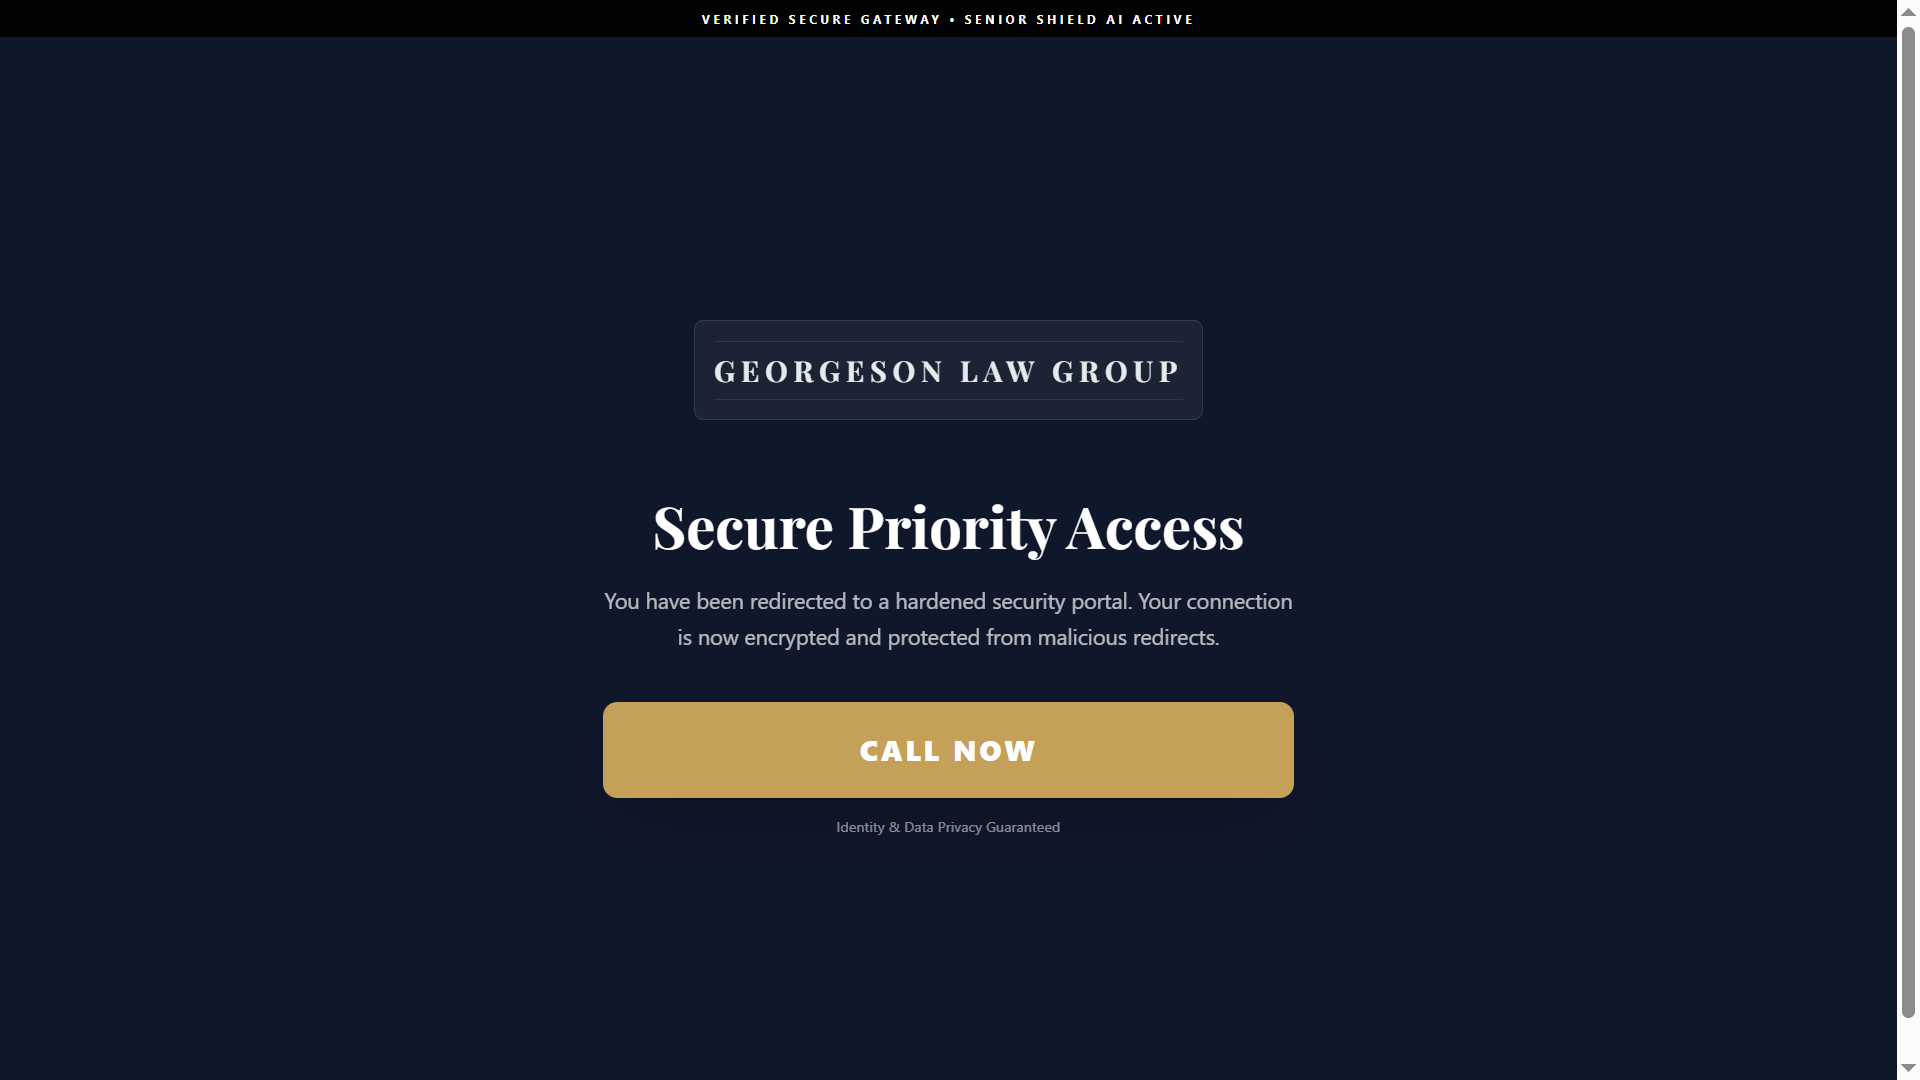
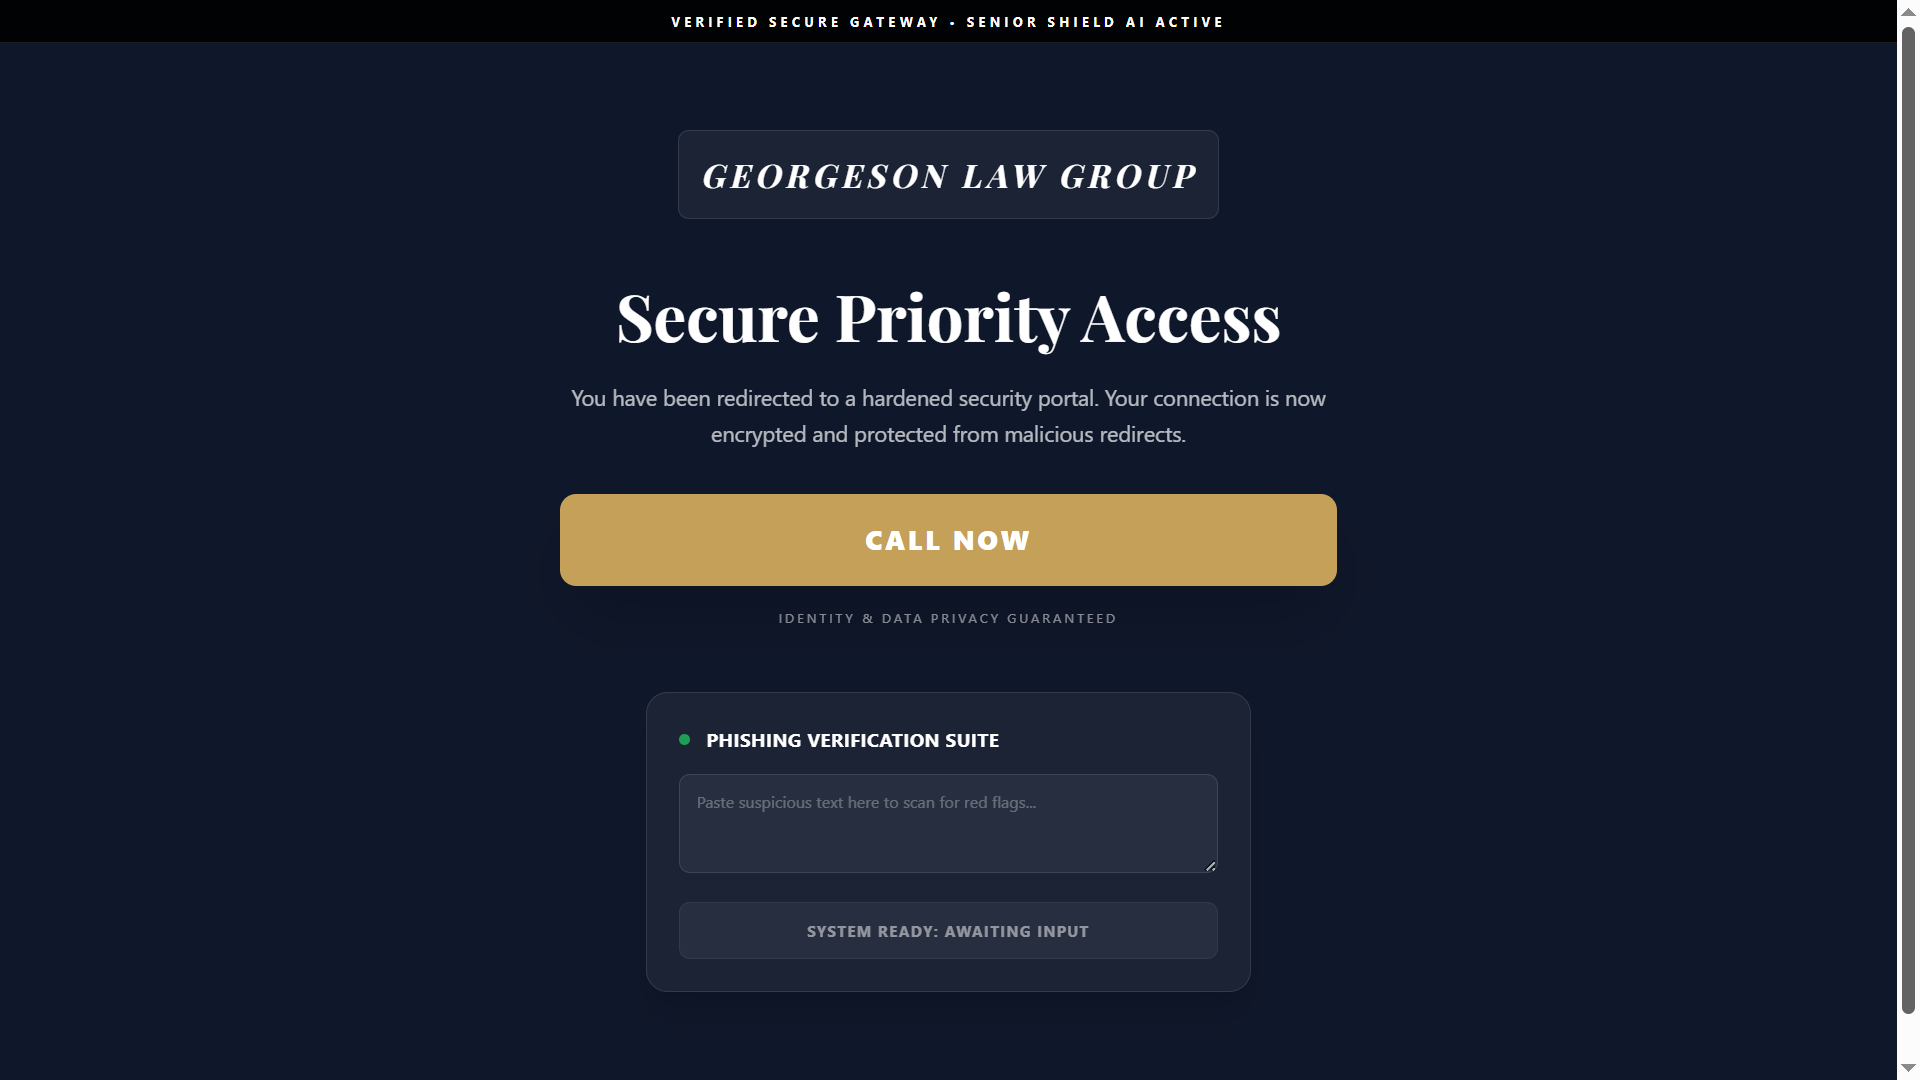
add mockup and current images

diff --git a/index.html b/index.html
@@ -8,14 +8,25 @@
     <link href="https://fonts.googleapis.com/css2?family=Playfair+Display:wght@700&family=Inter:wght@400;700;900&display=swap" rel="stylesheet">
     
     <style>
-        .theme-prestige { --primary: #c5a059; --bg: #0f172a; --font-heading: 'Playfair Display', serif; }
+        /* THE SWITCH LOGIC */
+        /* Lawyer Mode: .theme-prestige | Plumber Mode: .theme-emergency */
+        .theme-prestige { --primary: #c5a059; --bg: #0f172a; --text: #ffffff; --font-heading: 'Playfair Display', serif; --accent: rgba(255,255,255,0.1); }
+        .theme-emergency { --primary: #16a34a; --bg: #f8fafc; --text: #1e293b; --font-heading: 'Inter', sans-serif; --accent: rgba(0,0,0,0.05); }
+
+        body { background-color: var(--bg); color: var(--text); font-family: 'Inter', sans-serif; }
         .heading-font { font-family: var(--font-heading); }
-        .theme-prestige { background-color: var(--bg); color: white; }
-        .theme-prestige #main-btn { background-color: var(--primary); color: white; }
+        
+        #main-btn { background-color: var(--primary); color: white; }
+        .theme-emergency #main-btn { box-shadow: 0 8px 0 0 #14532d; }
+        
+        /* Ensures branding stays visible in both modes */
+        .brand-container { background-color: var(--accent); border: 1px solid rgba(128,128,128,0.2); }
+        .theme-emergency .brand-text { color: #1e3a8a; } /* Strong blue for Zaragoza */
+        .theme-prestige .brand-text { color: #ffffff; }
     </style>
 </head>
 
-<body class="theme-prestige transition-colors duration-500">
+<body class="theme-emergency transition-colors duration-500">
 
     <div class="bg-black/90 text-white py-2 text-center text-[10px] tracking-[0.3em] font-bold border-b border-white/10 uppercase">
         Verified Secure Gateway • Senior Shield AI Active
@@ -24,18 +35,18 @@
     <main class="min-h-screen flex flex-col items-center justify-center px-6 transition-all pb-20">
         
         <div class="mb-8 text-center mt-12">
-            <div class="inline-block p-4 bg-white/5 border border-white/10 backdrop-blur-md rounded-lg mb-4">
-                <h2 class="heading-font text-2xl font-black tracking-tighter text-white uppercase italic">
-                    Piasta Law
+            <div class="brand-container inline-block p-4 backdrop-blur-md rounded-lg mb-4">
+                <h2 class="brand-text heading-font text-2xl font-black uppercase italic tracking-[0.15em]">
+                    Elite Plumbing Services
                 </h2>
             </div>
         </div>
 
         <div class="max-w-xl w-full text-center mb-12">
-            <h1 class="heading-font text-4xl md:text-5xl mb-6 leading-tight">
+            <h1 class="heading-font text-4xl md:text-5xl mb-6 leading-tight font-black">
                 Secure Priority Access
             </h1>
-            <p class="text-base opacity-70 mb-8 leading-relaxed font-sans">
+            <p class="text-base opacity-80 mb-8 leading-relaxed font-sans">
                 You have been redirected to a hardened security portal. Your connection is now encrypted and protected from malicious redirects.
             </p>
 
@@ -43,21 +54,21 @@
                 <a href="tel:+10000000000" id="main-btn" class="block w-full py-5 rounded-xl font-black text-xl shadow-2xl transition-all transform active:scale-95 uppercase tracking-widest text-center">
                     Call Now
                 </a>
-                <p class="text-[10px] opacity-50 font-sans uppercase tracking-[0.2em]">Identity & Data Privacy Guaranteed</p>
+                <p class="text-[10px] opacity-60 font-sans uppercase tracking-[0.2em]">Identity & Data Privacy Guaranteed</p>
             </div>
         </div>
 
-        <div id="detector-container" class="max-w-md w-full bg-white/5 border border-white/10 backdrop-blur-sm rounded-2xl p-6 shadow-xl">
+        <div id="detector-container" class="max-w-md w-full rounded-2xl p-6 shadow-xl border border-gray-200" style="background-color: var(--accent);">
             <div class="flex items-center gap-3 mb-4">
                 <div class="h-2 w-2 rounded-full bg-green-500 animate-pulse"></div>
-                <h3 class="text-white font-bold text-sm tracking-wide uppercase">Phishing Verification Suite</h3>
+                <h3 class="font-bold text-sm tracking-wide uppercase">Phishing Verification Suite</h3>
             </div>
             
             <textarea id="userInput" rows="3" 
-                class="w-full p-3 rounded-lg border border-white/10 text-white bg-white/5 font-sans text-xs focus:border-[#c5a059] focus:ring-0 outline-none transition-all placeholder:text-white/30"
+                class="w-full p-3 rounded-lg border border-gray-300 text-slate-900 bg-white font-sans text-xs focus:ring-2 focus:ring-green-500 outline-none transition-all placeholder:text-slate-400"
                 placeholder="Paste suspicious text here to scan for red flags..."></textarea>
             
-            <div id="riskStatus" class="mt-4 p-3 rounded-lg text-[11px] font-bold uppercase tracking-widest text-center transition-all duration-300 bg-white/5 text-white/50 border border-white/5">
+            <div id="riskStatus" class="mt-4 p-3 rounded-lg text-[11px] font-bold uppercase tracking-widest text-center transition-all duration-300 bg-white/50 text-slate-500 border border-gray-200">
                 System Ready: Awaiting Input
             </div>
         </div>
@@ -72,15 +83,13 @@
         input.addEventListener('input', function() {
             const text = input.value.toLowerCase();
             let risk = 'No Threats Detected';
-            let bgColor = 'rgba(34, 197, 94, 0.1)'; 
-            let borderColor = 'rgba(34, 197, 94, 0.2)';
-            let textColor = '#4ade80'; 
+            let bgColor = '#dcfce7'; 
+            let textColor = '#166534'; 
 
             if (text.trim() === "") {
                 status.textContent = "System Ready: Awaiting Input";
-                status.style.backgroundColor = "rgba(255,255,255,0.05)";
-                status.style.borderColor = "rgba(255,255,255,0.05)";
-                status.style.color = "rgba(255,255,255,0.5)";
+                status.style.backgroundColor = "transparent";
+                status.style.color = "#64748b";
                 return;
             }
 
@@ -88,19 +97,16 @@
             
             if (text.includes('opentaskcloud') || found.length > 2) {
                 risk = '⚠ HIGH RISK: Phishing Detected';
-                bgColor = 'rgba(239, 68, 68, 0.2)';
-                borderColor = 'rgba(239, 68, 68, 0.4)';
-                textColor = '#f87171';
+                bgColor = '#fee2e2';
+                textColor = '#991b1b';
             } else if (found.length > 0) {
                 risk = 'MODERATE RISK: Exercise Caution';
-                bgColor = 'rgba(245, 158, 11, 0.2)';
-                borderColor = 'rgba(245, 158, 11, 0.4)';
-                textColor = '#fbbf24';
+                bgColor = '#fef3c7';
+                textColor = '#92400e';
             }
 
             status.textContent = risk;
             status.style.backgroundColor = bgColor;
-            status.style.borderColor = borderColor;
             status.style.color = textColor;
         });
     </script>
